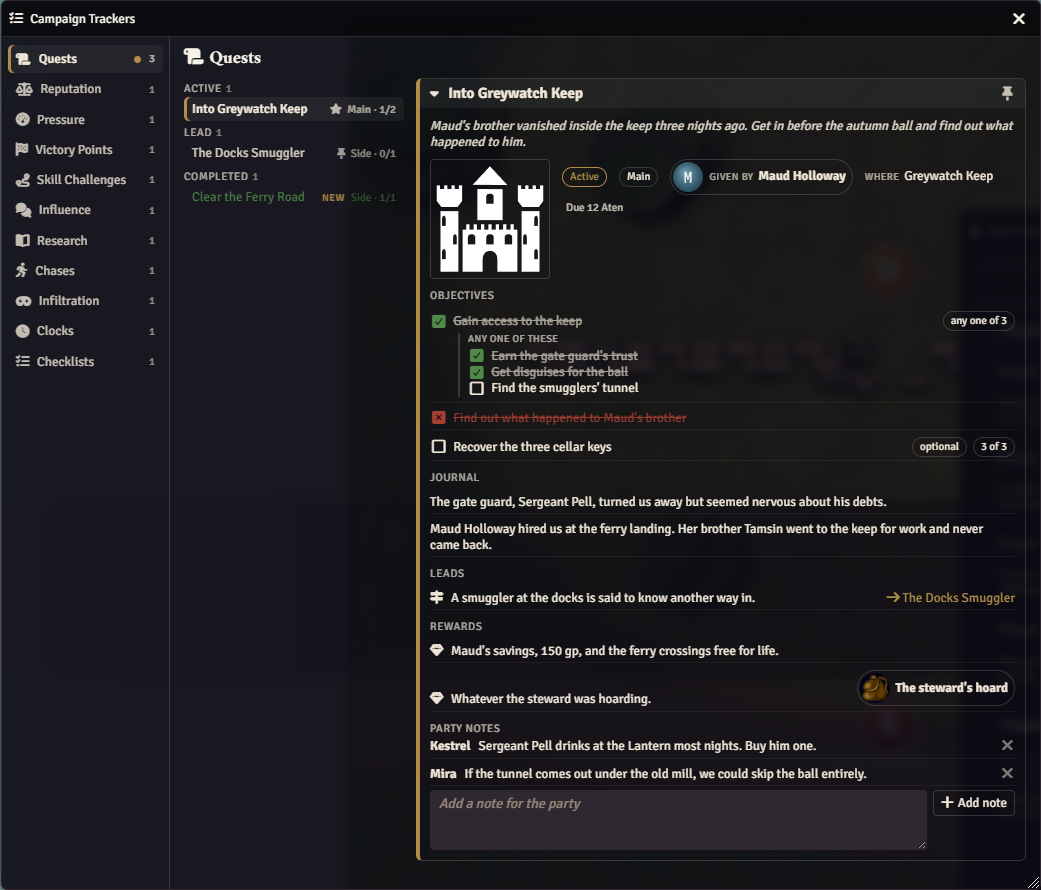
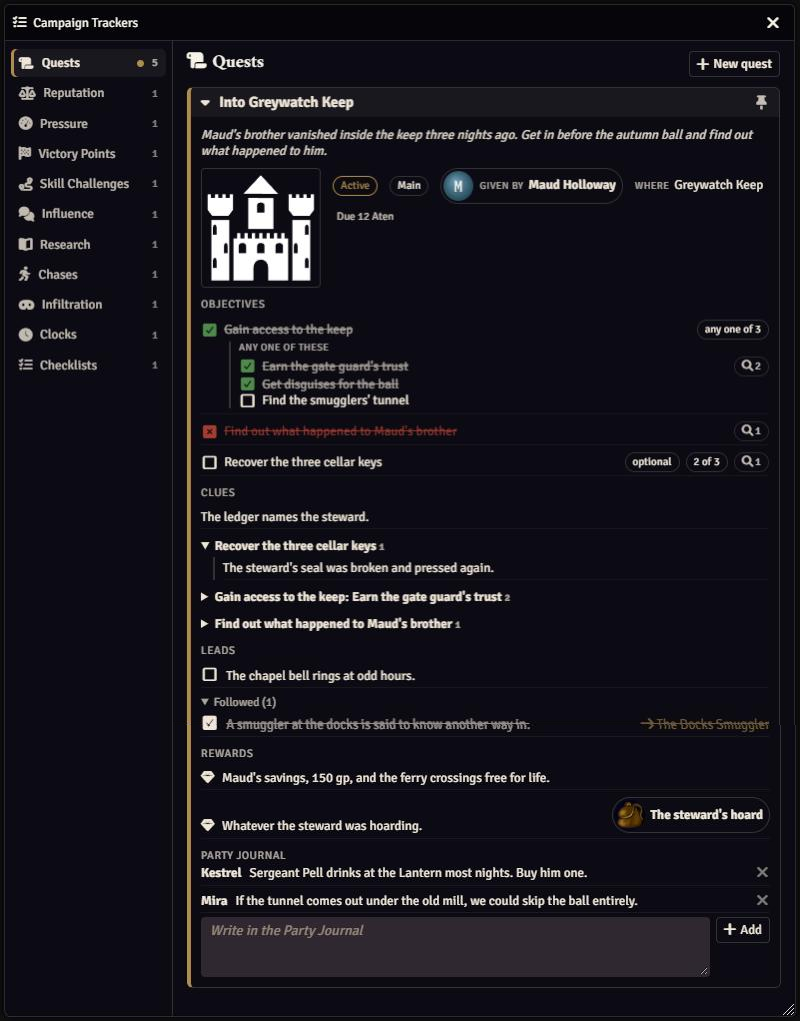
2.6.0: README, pictures, version
Claude-Session: https://claude.ai/code/session_01K6FfS8YfTTEmbKa519h3Y6

Changed region(s): [[0.0, 0.0, 1.0, 1.0], [0.875, 0.4247, 0.9375, 0.4551], [0.7812, 0.4247, 0.8438, 0.4551]]

diff --git a/README.md b/README.md
@@ -1,6 +1,6 @@
 # PF2e Campaign Trackers
 
-A quest log, GM Core's subsystems and a few table-neutral trackers in one window: Quests, Reputation, Pressure, Victory Points, Skill Challenges, Influence, Research, Chases, Infiltration, Clocks and Checklists. Everything is hidden from players until the GM reveals it. Quests have objectives with steps, clues, leads between quests and reveals prepared for when something is done; players can tick objectives, write in a quest's Party Journal and start party quests of their own, and a panel keeps the party's quests on screen. Checks roll through the PF2e system and the GM applies the result from the roll card. In a skill challenge, or in ordinary play from a hotbar macro, players can propose a check and the GM approves it with a DC on the spot. Dates on clocks, checklists and quests send the GM a whisper when the calendar reaches them. Other modules can ship campaign content as a preset.
+A quest log, GM Core's subsystems and a few table-neutral trackers in one window: Quests, Reputation, Pressure, Victory Points, Skill Challenges, Influence, Research, Chases, Infiltration, Clocks and Checklists. Everything is hidden from players until the GM reveals it. Quests have objectives with steps, clues filed under the objectives they belong to, leads that reveal clues and other quests, and reveals prepared for when something is done; players can tick objectives, follow leads, write in a quest's Party Journal and start party quests of their own, and a panel keeps the party's quests on screen. Checks roll through the PF2e system and the GM applies the result from the roll card. In a skill challenge, or in ordinary play from a hotbar macro, players can propose a check and the GM approves it with a DC on the spot. Dates on clocks, checklists and quests send the GM a whisper when the calendar reaches them. Other modules can ship campaign content as a preset.
 
 ## What it looks like
 
@@ -12,8 +12,8 @@ One window, a tab for each kind of tracker. Everything starts hidden: reveal a t
 <td width="50%" valign="top"><img src="docs/images/quest-player.png" alt="A quest, player view"></td>
 </tr>
 <tr>
-<td valign="top"><b>Quests</b>, as the GM sees it: the list by status, objectives with steps, a link to another tracker, hidden parts and notes only the GM sees.</td>
-<td valign="top">The same quest in the players' window: what's been revealed, boxes to tick, and the Party Journal.</td>
+<td valign="top"><b>Quests</b>, as the GM sees it: objectives with steps, a link to another tracker, clues filed under the objectives they belong to, a lead that reveals two clues, a Hidden fold, and notes only the GM sees.</td>
+<td valign="top">The same quest in the players' window: what's been revealed, boxes to tick, clues by objective, a followed lead, and the Party Journal.</td>
 </tr>
 </table>
 <table>
@@ -208,18 +208,20 @@ A quest log for the party: what they've taken on, what's next, what they've lear
 - A status (Lead, Active, Completed or Failed) and a category you name (Main and Side to start). Completed quests show green in the list and failed ones red.
 - A picture, who gave it (drop an actor, or type a name), where, and a due date.
 - **Objectives**, each with optional **steps** under it. An objective with steps is ready to mark done when all of them are, or when any one is (you choose). Objectives and steps can be optional and can have a count ("3 of 5 keys").
-- **Clues**: what the party has learned, each with a date if you like.
-- **Leads**: a line of text that can point to another quest, and reveal a clue.
+- **Clues**: what the party has learned, each with a date if you like, newest revealed first. A clue can be filed under the objective or step it belongs to.
+- **Leads**: a line of text that can point to another quest, and reveal clues. A followed lead is struck through and put away.
 - **Rewards**: text, and a loot actor if it's treasure.
 - Notes only you see, on the quest and on each objective, step, lead and reward. They show in a purple box marked GM, so they never read as something players see.
 
 The pencil on a quest edits all of it. Each section also has its own pencil and +, so you can add an objective or a GM note without opening the rest.
 
-**Running it.** Click an objective's box to mark it done, click again to open it; right-click marks it failed (struck through in red). Each objective, step, clue, lead and reward has an eye: reveal it when the players should know.
+**Running it.** Click an objective's box to mark it done, click again to open it; right-click marks it failed (struck through in red). Each objective, step, clue, lead and reward has an eye: reveal it when the players should know. On your side, what players can't see yet sits in a **Hidden** fold under each list.
+
+**Clues.** The newest revealed clue is at the top, for you and the players. To keep a long quest readable, drag a clue by the grip at the end of its row (it shows when you point at the clue) onto the objective or step it belongs to, or pick one under "Filed under" in its editor: the Clues section shows clues not filed yet first, then a fold for each objective or step, the one with the newest clue first. A finished objective's fold starts closed, so finished threads tuck themselves away. Objectives show how many clues are filed under them. Drag a clue onto the Clues heading to unfile it. You can file a hidden clue ahead of time; it shows in Hidden with a tag naming its fold, and goes there when revealed. Each person's open and closed folds are kept in their browser.
 
 **What happens when something is done.** In an objective or step's editor, "When it's done, offer to reveal" lists the parts you want revealed once it's done: the next objective, a clue, a lead. When it's marked done, you get a whispered card with those parts ticked; untick any, then Reveal. The card also offers to mark the objective done once its steps add up. Nothing is revealed until you click.
 
-**Leads.** A lead can point to another quest, and can reveal one of the quest's clues ("Reveals clue" in its editor). When you reveal a lead whose quest or clue players can't see yet, you're offered both, ticked; the completion card and reveal links offer them the same way. A quest shows which leads point to it, so you can follow a thread back.
+**Leads.** A lead can point to another quest, and can reveal any of the quest's clues ("Reveals clues" in its editor). When you reveal a lead whose quest or clues players can't see yet, you're offered them, ticked; the completion card and reveal links offer them the same way. The box in front of a lead marks it followed: it's struck through and moves into a closed **Followed** fold at the end of the leads, and if its quest or clues are still hidden you're offered them. A quest shows which leads point to it, so you can follow a thread back.
 
 **Linking to other trackers.** With "Watch" in its editor, an objective or step can watch another tracker: a clock filling, a skill challenge won or lost, victory points, research, influence, reputation or pressure reaching a number, a checklist entry ticked, a chase won, an infiltration's objective reached. It shows how that tracker stands ("Rally the Village: 6 of 8"), and when it gets there you get a card offering to mark it done. It never ticks itself.
 
@@ -230,10 +232,13 @@ The pencil on a quest edits all of it. Each section also has its own pencil and 
 **What players can do.**
 
 - Read what you've revealed, and nothing else: no GM notes, no hidden objectives, steps or leads. A lead names the quest it points to only once that quest is revealed.
-- Tick a revealed objective or step done. You get a card each time, with anything you prepared to reveal. They can untick what a player ticked, but not what you marked. Turn this off with the setting "Players can tick quest objectives".
+- Tick a revealed objective or step done. You get a card each time, with anything you prepared to reveal. They can untick what a player ticked, but not what you marked.
+- Mark a revealed lead followed. You get a card offering whatever it points to that they can't see yet. They can undo a player's mark, not yours.
+- File revealed clues under the objectives and steps they can see, by dragging. A clue you filed under something they can't see stays where you put it.
+- Turn ticking, following and filing off with the setting "Players can tick objectives, follow leads and file clues". On a party quest the party can always do them, and you get no card.
 - Write in a quest's **Party Journal**, signed with their character's name. Everyone sees it. Players delete their own entries; you can delete any. The magnifying glass on an entry makes it a clue, dated today, revealed and signed with the player's name, so a good find becomes part of the record. A gold one means it's already a clue.
 - Start party quests of their own (below).
-- Players' ticks, Party Journal entries and party quests go through a GM's client, so a GM needs to be logged in for them.
+- Players' ticks, follows, filing, Party Journal entries and party quests go through a GM's client, so a GM needs to be logged in for them.
 
 **Party quests.** Players can start a quest themselves with **New quest** on the Quests tab, for anything they want to keep track of, so you aren't the only one making and keeping quests. Anyone in the party can edit a party quest: its name, summary, status, category, giver, place and due date, its objectives and steps, clues, leads and rewards. What they add is revealed. Only the player who made it, or you, can delete it. The rest of the party gets a notice when one is made; edits only mark it Updated. Party quests have a party icon in the list.
 
@@ -258,9 +263,9 @@ A party quest is yours to edit too, and you can add hidden parts and GM notes th
 
 **Quest links.** Write `@Quest[id]` in any journal page (or `@Quest[id]{a label}` for other words), and it shows as a link that opens the quest. Drag a quest from the Quests list into a page's editor to make one; a quest's id is also in `api.quests()`. A player sees a link to a quest they can't open yet as a faded link.
 
-**Reveal links.** A button for your prep notes that reveals parts of a quest when the moment comes, so you don't have to find the right eyes at the table. In your view of a quest, each objective, step, journal entry, lead and reward shows a link icon when you point at it: drag it into a journal page, or click it to copy the link. For one button that reveals several parts, click the link icon in the quest's header, tick the parts, and drag **Drag or copy** into the page (with nothing ticked, the button reveals the quest itself). In the page it reads like `@QuestReveal[quest-id|part-id,part-id]{The porch door}`; the words in braces are the button's label. To add parts to a link later, open the page to read it (not to edit it) and drop the parts' link icons (or a picked set) on its button; the link in the page's text gets them, and keeps its label.
+**Reveal links.** A button for your prep notes that reveals parts of a quest when the moment comes, so you don't have to find the right eyes at the table. In your view of a quest, each objective, step, clue, lead and reward shows a link icon when you point at it: drag it into a journal page, or click it to copy the link. For one button that reveals several parts, click the link icon in the quest's header, tick the parts, and drag **Drag or copy** into the page (with nothing ticked, the button reveals the quest itself). In the page it reads like `@QuestReveal[quest-id|part-id,part-id]{The porch door}`; the words in braces are the button's label. To add parts to a link later, open the page to read it (not to edit it) and drop the parts' link icons (or a picked set) on its button; the link in the page's text gets them, and keeps its label.
 
-Clicking the button lists what it will reveal, all ticked: the quest if players can't see it yet, each hidden part, the objective a step sits under, the quest a lead points to, and loot players can't open yet. Untick anything to keep it hidden, then **Reveal**. A step always brings the objective it sits under, as it does with the eye, since players see nothing of a step under a hidden objective. Shift-click reveals everything on that list at once, as Shift skips the dialog when you roll. Either way it's one change, so players get one notice. Pointing at the button lists what it covers, with a tick on what players already see; it fades with a check once they see it all, and shows a dashed red border when something it names was deleted. Players see only the label, as plain text, with no hint of what's behind it; a link made by dragging is labeled with the part's text (or the quest's name), so change the label in a page players can read. A reveal link in chat, or in a page a player changed last, always shows the list, even with Shift.
+Clicking the button lists what it will reveal, all ticked: the quest if players can't see it yet, each hidden part, the objective a step sits under, the quest and clues a lead reveals, and loot players can't open yet. Untick anything to keep it hidden, then **Reveal**. A step always brings the objective it sits under, as it does with the eye, since players see nothing of a step under a hidden objective. Shift-click reveals everything on that list at once, as Shift skips the dialog when you roll. Either way it's one change, so players get one notice. Pointing at the button lists what it covers, with a tick on what players already see; it fades with a check once they see it all, and shows a dashed red border when something it names was deleted. Players see only the label, as plain text, with no hint of what's behind it; a link made by dragging is labeled with the part's text (or the quest's name), so change the label in a page players can read. A reveal link in chat, or in a page a player changed last, always shows the list, even with Shift.
 
 <img src="docs/images/reveal-link.png" alt="A prep page with two reveal links, one already revealed, and the list a click opens" width="600">
 
@@ -284,7 +289,7 @@ game.modules.get("pf2e-campaign-trackers").api.registerPreset({
 
 They are added hidden the first time. When the version changes, their text is updated and values, progress, ticks and reveals are kept (for a skill challenge, its counts, the uses of each approach and the list of results). Tiers, thresholds, checks, segments and entries you added yourself stay (so do ones the preset dropped; remove those by hand). "Presets" at the bottom of the tab list reloads a preset's text by hand.
 
-For quests, an update keeps the status, ticks, counts, reveals, the Party Journal, the focus and the "Players see the due date" switch. A giver, picture, due date, loot actor, planned reveals or link you set in play stays unless the preset gives its own. A lead's `to` and an objective's `link.tid` can name another tracker in the same preset by its key; it's matched to that tracker's stored id.
+For quests, an update keeps the status, ticks, counts, reveals, the Party Journal, the focus and the "Players see the due date" switch. A giver, picture, due date, loot actor, planned reveals, link, a lead's clues or where a clue is filed, set in play, stays unless the preset gives its own. Followed leads stay followed. A lead's `to` and an objective's `link.tid` can name another tracker in the same preset by its key; it's matched to that tracker's stored id.
 
 ## For macros
 

diff --git a/CHANGELOG.md b/CHANGELOG.md
@@ -1,5 +1,18 @@
 # Changelog
 
+## 2.6.0
+
+- Quests stay readable as they grow. Clues show newest revealed first, for you and the players (clues revealed before this version keep their order, below new ones).
+- File a clue under the objective or step it belongs to: drag it there by the grip at the end of its row, or pick one under "Filed under" in the clue's editor. Clues not filed yet come first, then a fold for each objective or step, the one with the newest clue first; a done or failed objective's fold starts closed. Objectives show how many clues are filed under them. Drag a clue onto the Clues heading to unfile it.
+- Leads can be marked followed with the box in front of them: struck through and moved into a closed Followed fold. Following a lead whose quest or clues are still hidden offers them, ticked.
+- A lead can reveal several clues ("Reveals clues" in its editor). A lead's single clue carries over, and a clue that was deleted drops off the lead.
+- On your side, hidden clues and leads sit in a Hidden fold under each list. A hidden clue filed ahead of time shows a tag naming its fold.
+- Players can mark leads followed (you get a card offering what it points to) and file clues under the objectives they can see, along with ticking objectives. The setting is now "Players can tick objectives, follow leads and file clues". They can undo a player's mark, not yours.
+- Folds you open or close are kept in your browser.
+- Long clue text no longer wraps under its eye.
+- Post to chat quotes the quest's newest revealed clue.
+- For macros: a lead from `api.get()` now lists its clues as `clues` (ids), in place of `clue`.
+
 ## 2.5.0
 
 - Quests: the Journal section is now **Clues** (what the party has learned), and Party notes are now the **Party Journal**. Nothing in your quests changes but the names.
